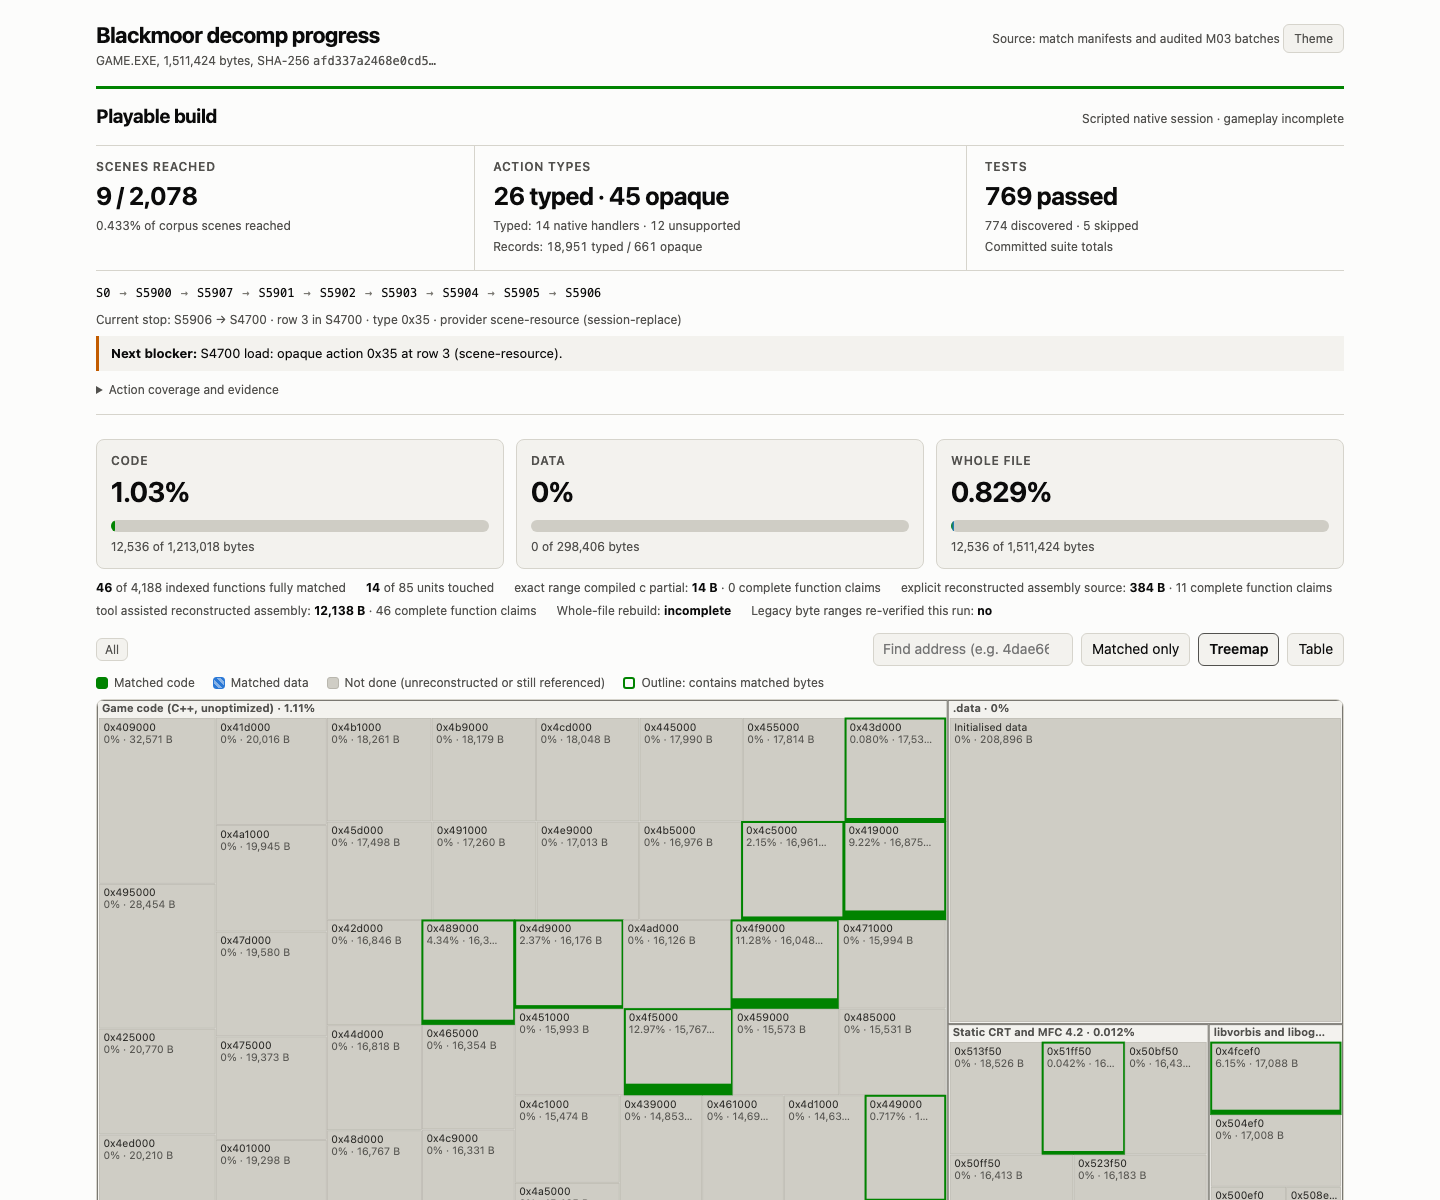
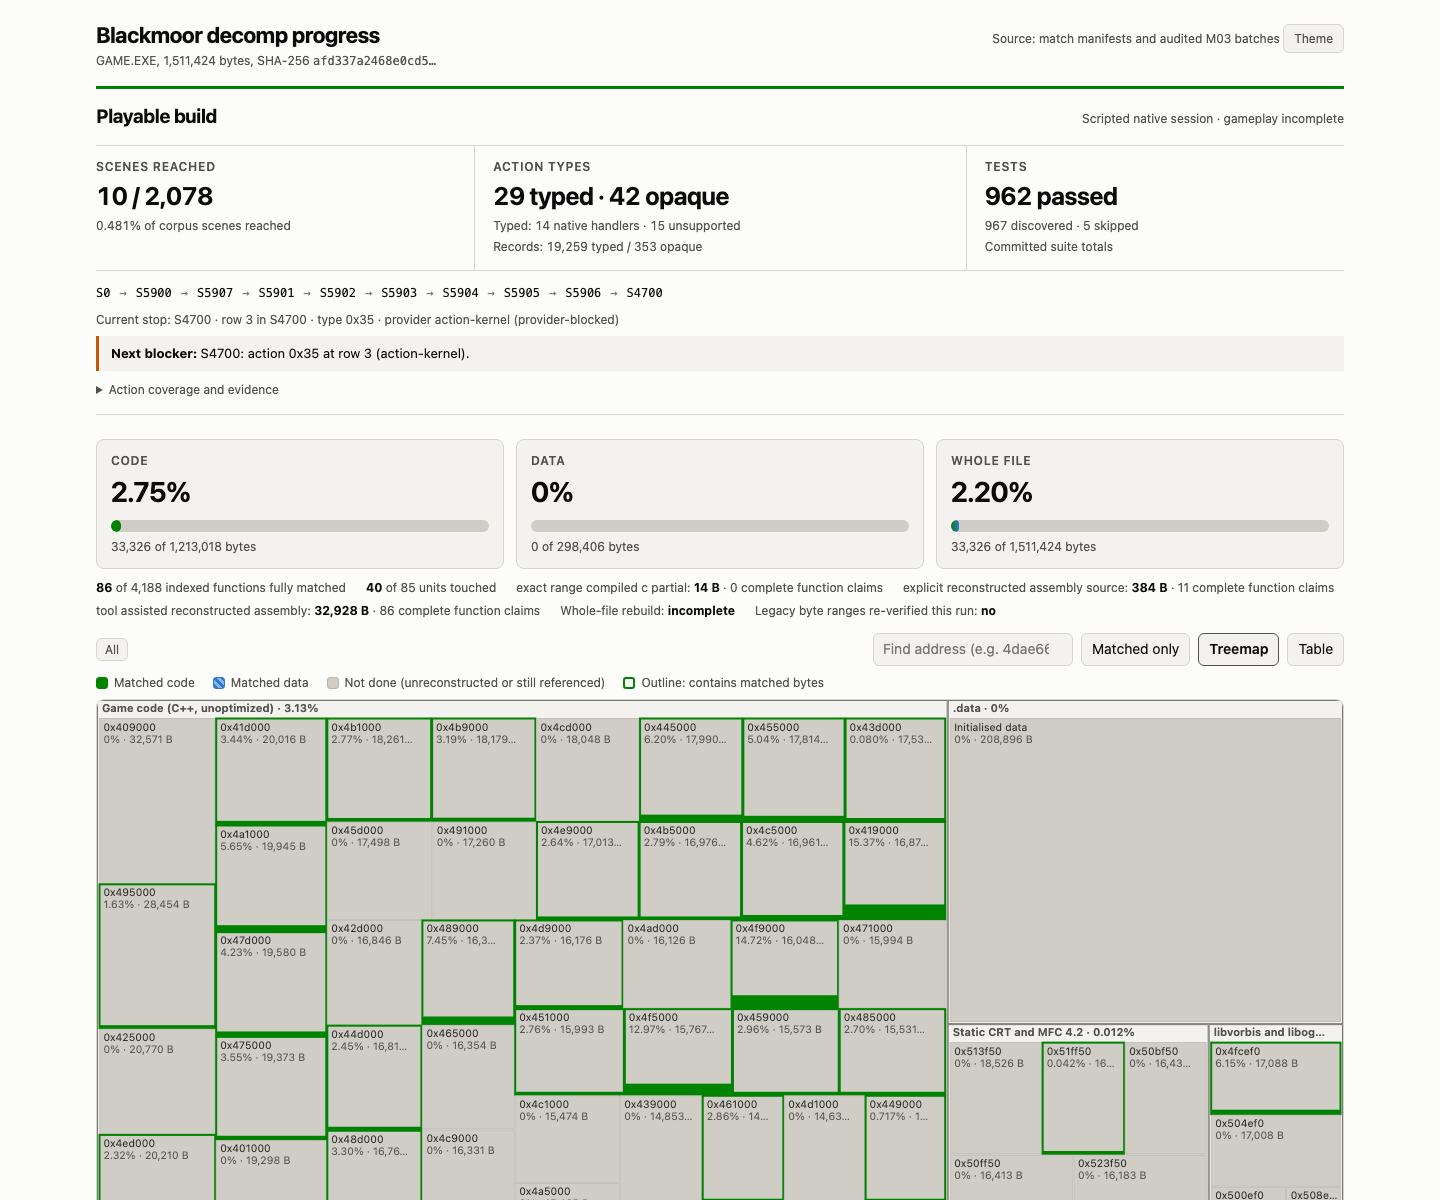
PROG-1.1: assembler self-test instead of binary hash, refreshed preview.png

diff --git a/outputs/blackmoor-decomp/decomp-progress/test_progress.py b/outputs/blackmoor-decomp/decomp-progress/test_progress.py
@@ -598,7 +598,7 @@ class AuditedBatchTests(unittest.TestCase):
             "all_accepted": True, "errors": [], "accepted_count": len(audited),
             "code_bytes_accepted": sum(f["code"]["size"] for f in audited),
             "contains_original_byte_values": False, "functions": audited,
-            "assembler": {"version_line": "GNU assembler (GNU Binutils) 2.43.1",
+            "assembler": {"version_line": "GNU assembler (GNU Binutils) 2.43.1", "self_test": "passed",
[1 lines of base64/hex data omitted]
 
     def model(self):
@@ -665,6 +665,10 @@ class AuditedBatchTests(unittest.TestCase):
         with self.assertRaisesRegex(GEN.ProgressError, "manifest hash"):
             self.model()
 
+    def test_other_machine_assembler_binary_with_passing_self_test_is_accepted(self):
+        self.mutate_report(lambda r: r["assembler"].update(sha256="0" * 64))
+        self.assertEqual(self.model()["totals"]["functions_complete"], 2)
+
     def test_incomplete_or_unpinned_audit_is_rejected(self):
         changes = [
             lambda r: r.update(all_accepted=False),
@@ -673,7 +677,8 @@ class AuditedBatchTests(unittest.TestCase):
             lambda r: r.update(accepted_count=1),
             lambda r: r.update(code_bytes_accepted=55),
             lambda r: r["assembler"].update(version_line="Apple assembler"),
-            lambda r: r["assembler"].update(sha256="0" * 64),
+            lambda r: r["assembler"].update(self_test="failed"),
+            lambda r: r["assembler"].pop("self_test"),
             lambda r: r["functions"][1].update(status="rejected"),
             lambda r: r["functions"][1].update(relocations=1),
             lambda r: r["functions"][1].update(compared_bytes=23),

diff --git a/outputs/blackmoor-decomp/decomp-progress/generate.py b/outputs/blackmoor-decomp/decomp-progress/generate.py
@@ -73,7 +73,6 @@ LEDGER_KINDS = {"code", "data"}
 TOOL_ASSISTED = "tool_assisted_reconstructed_assembly"
 # Same pin as scripts/audit_tool_assisted.py. Only audit metadata is read here;
 # neither the assembler, objects nor GAME.EXE are needed for normal generation.
[1 lines of base64/hex data omitted]
 M03_ASSEMBLER_VERSION = "GNU assembler (GNU Binutils) 2.43.1"
 
 
@@ -316,7 +315,7 @@ def audited_batch_evidence(layout: dict, out_dir: Path):
             require(report["manifest_sha256"] == sha256_file(path), "manifest hash differs from audit")
             require(report["all_accepted"] is True and report["errors"] == [], "batch audit not accepted")
             assembler = report["assembler"]
-            require(assembler["sha256"] == M03_ASSEMBLER_SHA and
+            require(assembler.get("self_test") == "passed" and
                     assembler["version_line"] == M03_ASSEMBLER_VERSION, "audit assembler is not pinned")
             functions, audited = man["functions"], report["functions"]
             require(isinstance(functions, list) and len(functions) > 0 and isinstance(audited, list),

diff --git a/outputs/blackmoor-decomp/decomp-progress/README.md b/outputs/blackmoor-decomp/decomp-progress/README.md
@@ -24,7 +24,7 @@ Refresh after any new reviewed match manifest, audited/reviewed M03 batch or led
 
     python3 outputs/blackmoor-decomp/decomp-progress/generate.py
 
-For a preview export, append `--preview-browser PATH/TO/CHROMIUM` (a Chromium or chrome-headless-shell executable). It renders a 1440 × 1200 light-theme PNG without opening a desktop window. The default generator needs only Python's standard library; the optional preview export needs an installed browser. While the owner's Mac is locked, export the artifact without computer-use or visual inspection.
+Always refresh `preview.png` with the rest (a stale screenshot contradicts the page): on this Mac `~/Library/Caches/ms-playwright/chromium_headless_shell-1243/chrome-headless-shell-mac-arm64/chrome-headless-shell` works, while headless Brave hangs. For a preview export, append `--preview-browser PATH/TO/CHROMIUM` (a Chromium or chrome-headless-shell executable). It renders a 1440 × 1200 light-theme PNG without opening a desktop window. The default generator needs only Python's standard library; the optional preview export needs an installed browser. While the owner's Mac is locked, export the artifact without computer-use or visual inspection.
 
 ## Playable build evidence
 
